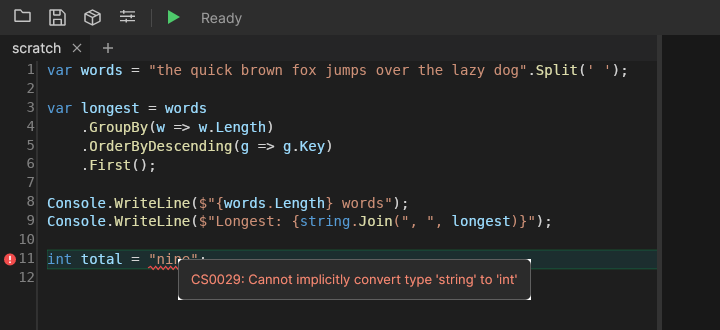
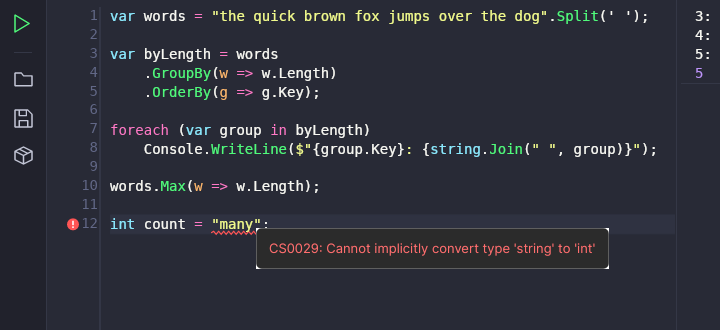
docs: update screenshots for the new look and add log points
All four screenshots are retaken with the current window layout and colours.
Adds a section and screenshot for automatic results and log points, and F9 to
the keys table.

diff --git a/index.html b/index.html
@@ -250,11 +250,22 @@
         <a class="button" href="https://github.com/jerhemy/RunCS/releases">Get RunCS</a>
         <span class="needs">For Windows, Linux and macOS. Needs the .NET 10 SDK.</span>
       </div>
-      <img class="shot" src="img/run.png" width="1100" height="700" alt="The RunCS window: a short C# script on the left that groups words by length, and its two lines of output on the right.">
+      <img class="shot" src="img/run.png" width="1100" height="698" alt="The RunCS window: a short C# script on the left that groups words by length, and its output on the right. The last line of the script is a bare expression, and its value, 5, appears in the output labelled L10.">
     </div>
 
     <section id="what">
       <h2>An editor that understands the code, and gets out of the way</h2>
+
+      <div class="feature wide">
+        <div>
+          <h3>See values without writing Console.WriteLine</h3>
+          <p>A line that is just an expression, such as <code>Add(2, 3);</code>, shows its value in the output, labelled with the line it came from.</p>
+          <p>For anything deeper, click beside a line number to add a log point. The next run reports what that line produced: a variable's new value, what a method returned, whether an <code>if</code> was true, or the arguments of each call. Your code stays as it is.</p>
+        </div>
+        <figure>
+          <img class="shot" src="img/logpoints.png" width="1100" height="540" alt="A script with blue diamonds beside five line numbers. The output lists what each of those lines produced, such as the arguments of a method call, initialDistance &lt;= 0 is false, return 40, and total = 2, 6 and 12 from inside a loop, each labelled with its line number.">
+        </figure>
+      </div>
 
       <div class="feature wide">
         <div>
@@ -274,7 +285,7 @@
           <p>The output pane is kept for what your program prints.</p>
         </div>
         <figure>
-          <img class="shot" src="img/errors.png" width="720" height="330" alt="Line 11 assigns a string to an int. It has a red badge in the margin and a red underline, and a popup reads: CS0029, cannot implicitly convert type string to int.">
+          <img class="shot" src="img/errors.png" width="720" height="330" alt="Line 12 assigns a string to an int. It has a red badge in the margin and a red underline, and a popup reads: CS0029, cannot implicitly convert type string to int.">
         </figure>
       </div>
 
@@ -299,7 +310,7 @@
           <p>They are saved inside the <code>.cs</code> file, so the script behaves the same wherever it goes. RunCS keeps those lines out of the editor, so you can't delete them by accident.</p>
         </div>
         <figure class="narrow">
-          <img class="shot" src="img/settings.png" width="520" height="620" alt="The Script settings window, with checkboxes for Native AOT, nullable reference types, implicit usings, unsafe code and warnings as errors, and choices for language version and project type.">
+          <img class="shot" src="img/settings.png" width="520" height="721" alt="The Script settings window, with checkboxes for Native AOT, nullable reference types, implicit usings, unsafe code and warnings as errors, choices for language version and project type, and a switch for showing the value of top-level expressions.">
         </figure>
       </div>
 
@@ -320,6 +331,7 @@ dotnet run scratch.cs</pre>
         <tbody>
           <tr><th scope="row"><kbd>Ctrl</kbd> <kbd>Enter</kbd> or <kbd>F5</kbd></th><td>Run the current tab</td></tr>
           <tr><th scope="row"><kbd>Shift</kbd> <kbd>F5</kbd></th><td>Stop a running script</td></tr>
+          <tr><th scope="row"><kbd>F9</kbd></th><td>Add or remove a log point on the current line</td></tr>
           <tr><th scope="row"><kbd>Ctrl</kbd> <kbd>Space</kbd></th><td>Show completions</td></tr>
           <tr><th scope="row"><kbd>Ctrl</kbd> <kbd>T</kbd></th><td>New tab</td></tr>
           <tr><th scope="row"><kbd>Ctrl</kbd> <kbd>W</kbd></th><td>Close tab</td></tr>
